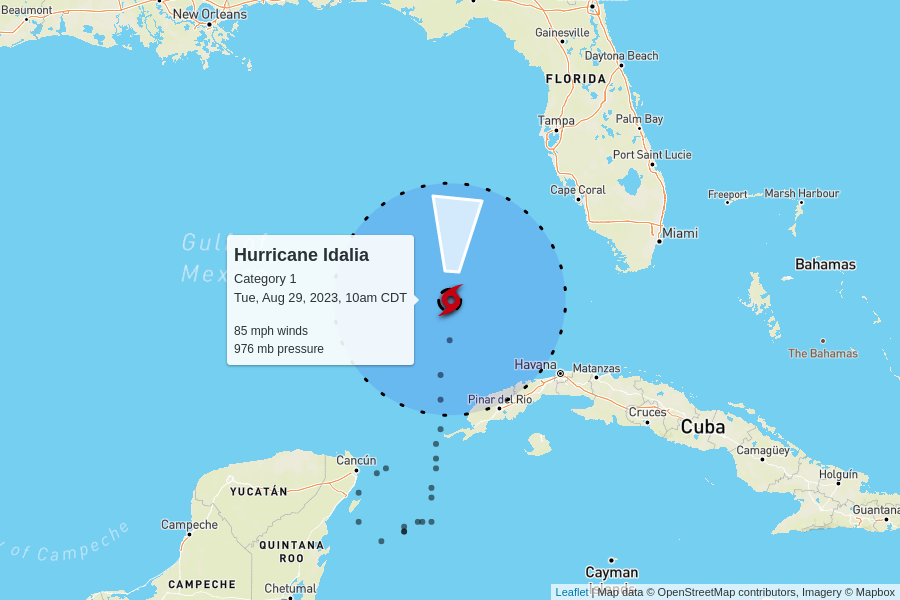
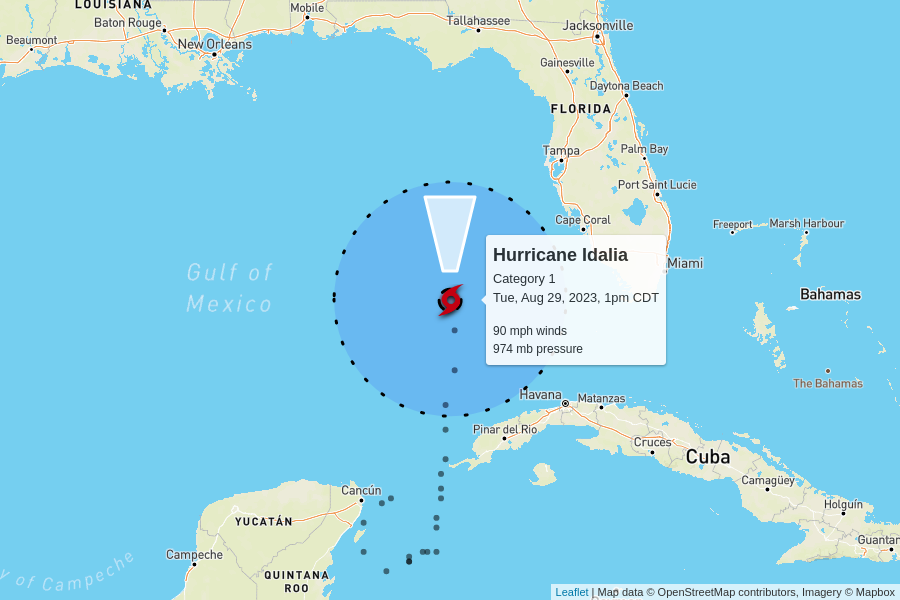
automatic update

diff --git a/docs/index.html b/docs/index.html
@@ -97,10 +97,10 @@
 
     <table>
       <tr>
-        <td colspan="6" class="storm category-4" >
+        <td colspan="6" class="storm category-3" >
           <h2>
-            Hurricane Franklin - Category 4
-            <p class="updated">last updated <span data-time>2023-08-29T15:00:00.000Z</span></p>
+            Hurricane Franklin - Category 3
+            <p class="updated">last updated <span data-time>2023-08-29T18:00:00.000Z</span></p>
           </h2>
         </td>
       </tr>
@@ -115,8 +115,8 @@
       </tr>
       <tr>
         <td class="spacer"></td>
-        <td>130 mph</td>
-        <td>941 mb</td>
+        <td>125 mph</td>
+        <td>947 mb</td>
         <td>
           12 mph to the north-northeast
           <br/>
@@ -144,7 +144,7 @@
         <td colspan="6" class="storm category-1" >
           <h2>
             Hurricane Idalia - Category 1
-            <p class="updated">last updated <span data-time>2023-08-29T15:00:00.000Z</span></p>
+            <p class="updated">last updated <span data-time>2023-08-29T18:00:00.000Z</span></p>
           </h2>
         </td>
       </tr>
@@ -159,12 +159,12 @@
       </tr>
       <tr>
         <td class="spacer"></td>
-        <td>85 mph</td>
-        <td>976 mb</td>
+        <td>90 mph</td>
+        <td>974 mb</td>
         <td>
-          14 mph to the north
+          15 mph to the north
           <br/>
-          <span style="display: inline-block; font-size: 1.5em; transform: rotate(5deg);">↑</span>
+          <span style="display: inline-block; font-size: 1.5em; transform: rotate(360deg);">↑</span>
         </td>
         <td><a href="https://raw.githubusercontent.com/mgwalker/atlantic-hurricanes/main/data/csv/AL102023.csv">AL102023.csv</a></td>
         <td><a href="https://www.nhc.noaa.gov/archive/2023/IDALIA.shtml?">NHC advisories</a></td>
